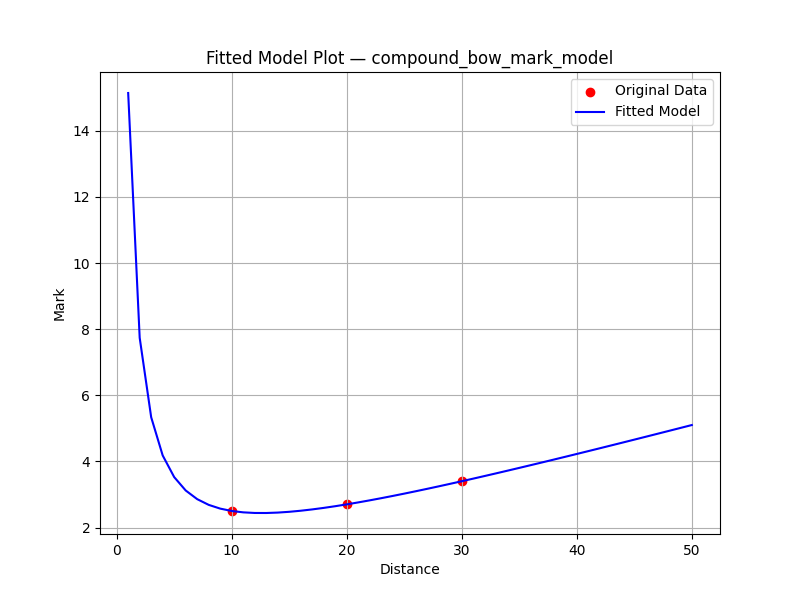
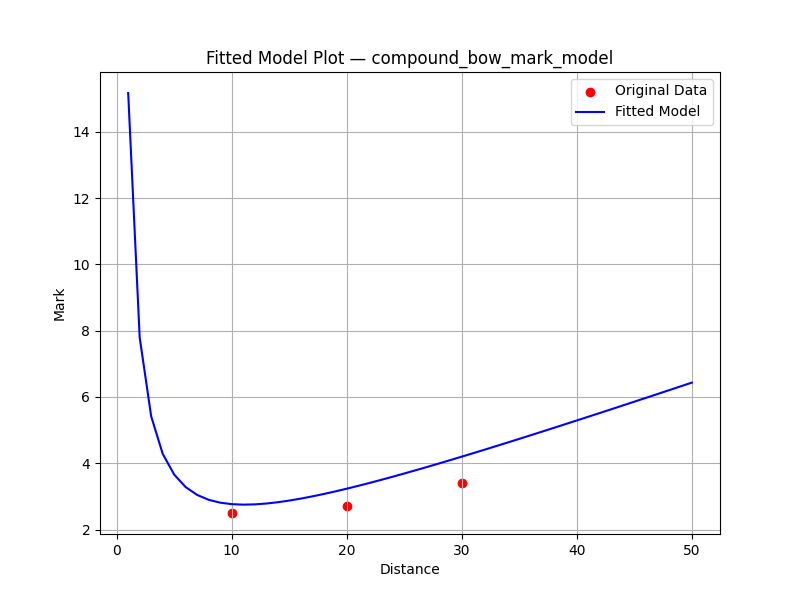
feat: Update correction input format and improve documentation for fit_marks workflow and script

diff --git a/processing.py b/processing.py
@@ -92,32 +92,27 @@ def compound_bow_mark_model(
 
 # Mark corrections
 def compute_correction(
+    distance,
     old_mark,
-    old_distance,
     new_mark,
-    new_distance=None,
     mode="angle",
 ):
     """Return the correction value that maps old sight marks onto new ones.
 
-    Both marks are first normalized into angle space (``mark / distance``),
+    Both marks must come from the same ``distance``, otherwise the
+    distance-dependent ballistic part of the angle would leak into the
+    correction. They are normalized into angle space (``mark / distance``) and
     then compared according to ``mode``:
 
     - ``"angle"``: peep/sight movement is a constant angular offset, so the
-      correction is the difference ``new_angle - old_angle``. This only
-      isolates the offset when both marks were taken at the *same* distance,
-      because the ballistic part of the angle is distance-dependent.
+      correction is the difference ``new_angle - old_angle``.
     - ``"velocity"``: a speed change scales the angle by ``(v0 / v1) ** 2``
       under the small-angle approximation, so the correction is the quotient
-      ``new_angle / old_angle`` and is distance-independent.
+      ``new_angle / old_angle``.
     """
-    new_distance = old_distance if new_distance is None else new_distance
-    old_angle = np.asarray(old_mark, dtype=float) / np.asarray(
-        old_distance, dtype=float
-    )
-    new_angle = np.asarray(new_mark, dtype=float) / np.asarray(
-        new_distance, dtype=float
-    )
+    distance = np.asarray(distance, dtype=float)
+    old_angle = np.asarray(old_mark, dtype=float) / distance
+    new_angle = np.asarray(new_mark, dtype=float) / distance
 
     if mode == "angle":
         return new_angle - old_angle
@@ -321,10 +316,9 @@ class DataProcessor:
         bounds=(-np.inf, np.inf),
         maxfev=None,
         correction_mode="angle",
+        correction_distance=None,
         correction_old_mark=None,
-        correction_old_distance=None,
         correction_new_mark=None,
-        correction_new_distance=None,
         poly_model=None,
         start=0,
         end=50,
@@ -338,32 +332,25 @@ class DataProcessor:
         """Run the fit, correction, evaluation, and optional plotting pipeline.
 
         The correction is derived here via ``compute_correction`` from the
-        ``correction_*`` arguments. It is skipped unless the old mark, the old
-        distance, and the new mark are all given.
+        ``correction_*`` arguments. It is skipped unless the distance and both
+        marks are given.
         """
         correction = None
-        if any(
-            value is not None
-            for value in (
-                correction_old_mark,
-                correction_old_distance,
-                correction_new_mark,
-            )
-        ):
-            if None in (
-                correction_old_mark,
-                correction_old_distance,
-                correction_new_mark,
-            ):
+        correction_arguments = (
+            correction_distance,
+            correction_old_mark,
+            correction_new_mark,
+        )
+        if any(value is not None for value in correction_arguments):
+            if None in correction_arguments:
                 raise ValueError(
-                    "A correction needs correction_old_mark, "
-                    "correction_old_distance and correction_new_mark."
+                    "A correction needs correction_distance, "
+                    "correction_old_mark and correction_new_mark."
                 )
             correction_value = compute_correction(
+                distance=correction_distance,
                 old_mark=correction_old_mark,
-                old_distance=correction_old_distance,
                 new_mark=correction_new_mark,
-                new_distance=correction_new_distance,
                 mode=correction_mode,
             )
             correction = {correction_mode: correction_value}
